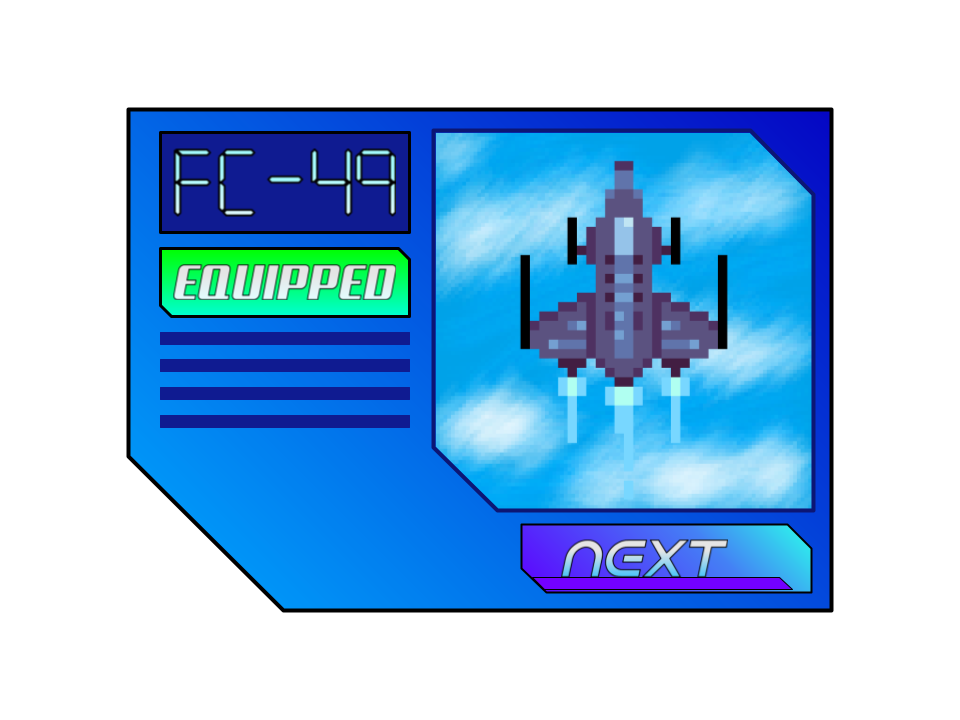
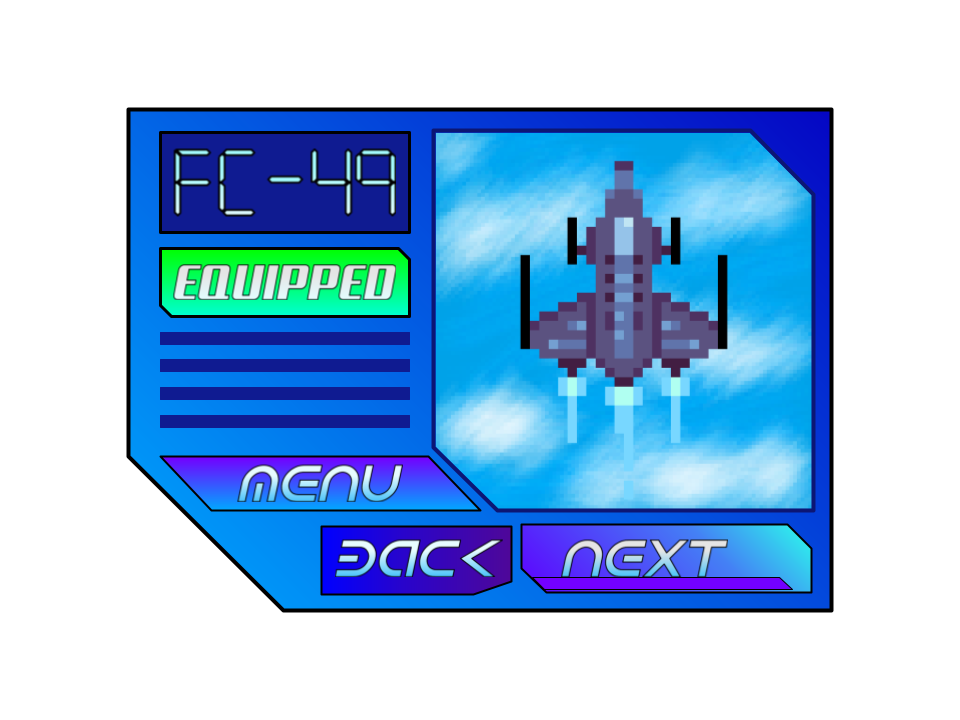
...

Changed region(s): [[0.1562, 0.6111, 0.5312, 0.825]]

diff --git a/src/MenuView.java b/src/MenuView.java
@@ -7,17 +7,29 @@ import javax.swing.ImageIcon;
 import javax.swing.JFrame;
 import javax.swing.JPanel;
 public class MenuView extends JPanel implements MouseListener, MouseMotionListener{
-	private boolean settings = false;
-	private boolean skins = false;
+	private boolean settings;
+	private boolean skins;
 	private int slideCounter = 0;
 	private String [] imageSlides = new String[]{};
 	private Image display;
 	private final String path = "images\\";
-	private boolean mouseHoveredPlay = false;
-	private boolean mouseHoveredSettings = false;
-	private boolean mouseHoveredSkins = false;
-	private boolean hoveredNext = false;
+	private boolean mouseHoveredPlay;
+	private boolean mouseHoveredSettings;
+	private boolean mouseHoveredSkins;
+	private boolean hoveredNext;
+	private boolean hoveredEquip;
+	private boolean back;
+	private boolean hoveredBack;
+	private boolean menuButt;
+	private boolean menuButtHovered;
 	public MenuView() {
+		settings = false;
+		skins = false;
+		mouseHoveredPlay = false;
+		mouseHoveredSettings = false;
+		mouseHoveredSkins = false;
+		hoveredNext = false;
+		hoveredEquip= false;
 		this.setPreferredSize(new Dimension(960,960));
 		this.setFocusable(true);
 		this.addMouseListener(this);
@@ -39,11 +51,12 @@ public class MenuView extends JPanel implements MouseListener, MouseMotionListen
 			g.drawImage(display, 0, 0, null);
 		} else if(skins){
 			g.drawImage(new ImageIcon(path+"skinsbackground.png").getImage(),0,0,null);
-			// display = new ImageIcon(path+imageSlides[slideCounter]).getImage();
+			// g.drawImage(new ImageIcon(path+imageSlides[slideCounter]).getImage(),0,100,null);
 			// g.drawImage(new ImageIcon(path+"next.png").getImage(),518,622,null);
+			
 		}
 		g.drawImage(new ImageIcon(path+"slide1.png").getImage(),0,100,null);
-		g.drawImage(new ImageIcon(path+"equipped.png").getImage(),160,347,null);
+		g.drawImage(new ImageIcon(path+"equip.png").getImage(),160,347,null);
 	}
 	@Override
 	public void mouseDragged(MouseEvent e) {
@@ -74,10 +87,10 @@ public class MenuView extends JPanel implements MouseListener, MouseMotionListen
 			} else {
 				hoveredNext = false;
 			}
-			if(e.getX()>=347 && e.getX()<=611 && e.getY()>=807 && e.getY()<=863) {
-				mouseHoveredSettings = true;
+			if(e.getX()>=158 && e.getX()<=412 && e.getY()>=346 && e.getY()<=418) {
+				hoveredEquip = true;
 			} else {
-				mouseHoveredSettings = false;
+				hoveredEquip = false;
 			}
 			this.repaint();
 		}
@@ -101,6 +114,9 @@ public class MenuView extends JPanel implements MouseListener, MouseMotionListen
 		} else if(skins){
 			if(e.getX()>=518 && e.getX()<=813 && e.getY()>=621 && e.getY()<=694){
 				slideCounter++;
+				this.repaint();
+			} else if(e.getX()>=158 && e.getX()<=412 && e.getY()>=346 && e.getY()<=418){
+				// gets player ship
 			} 
 		}	
 		// TODO Auto-generated method stub
